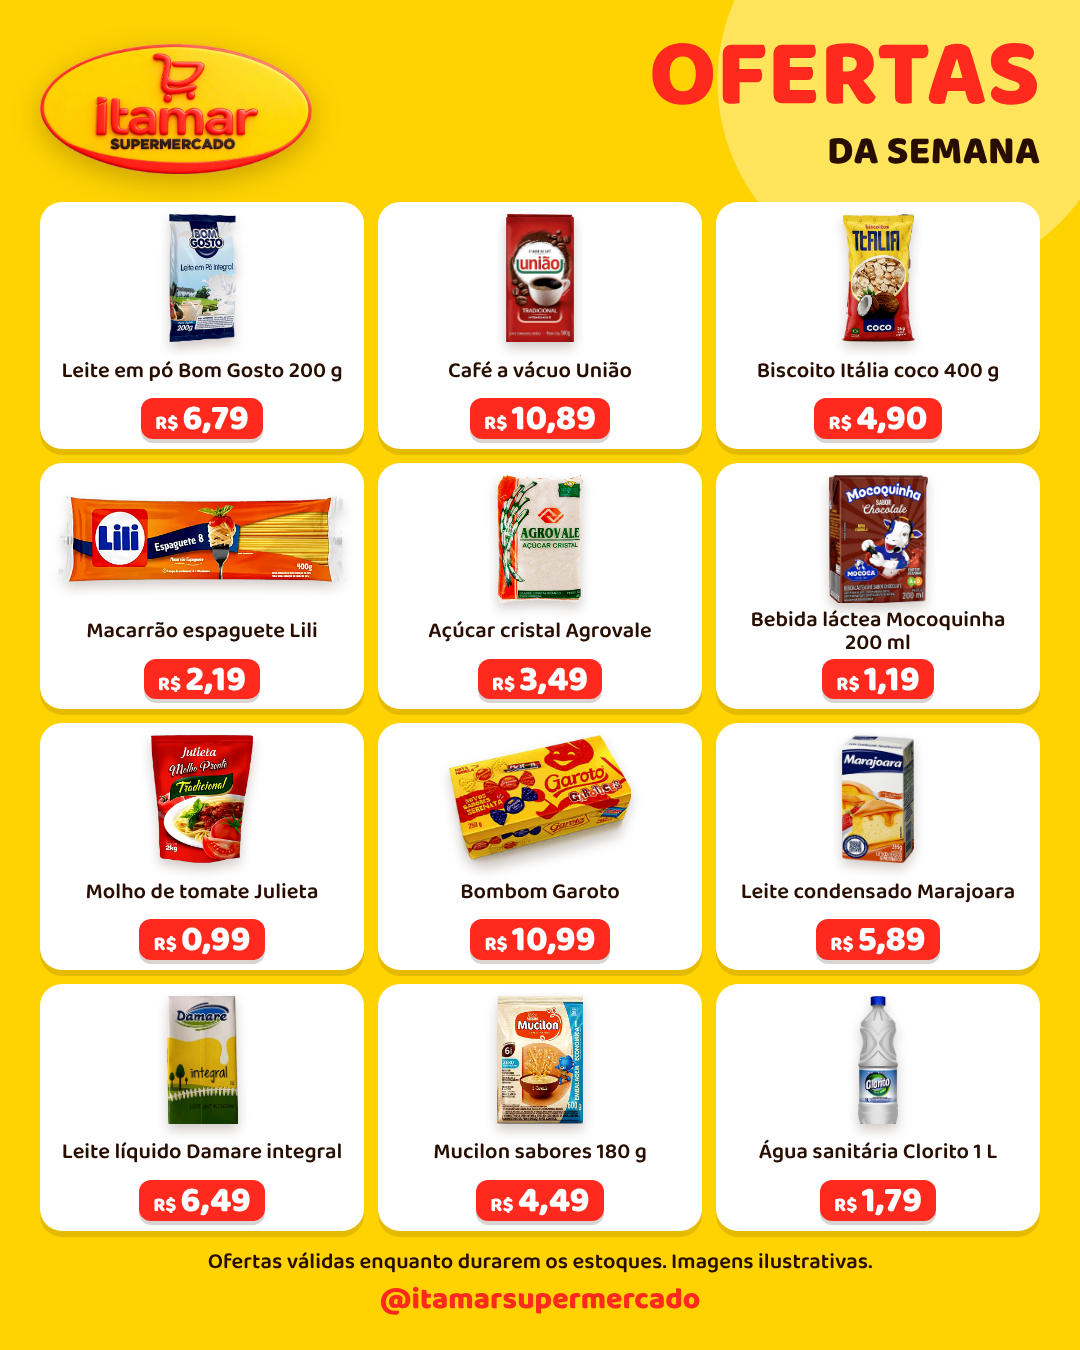
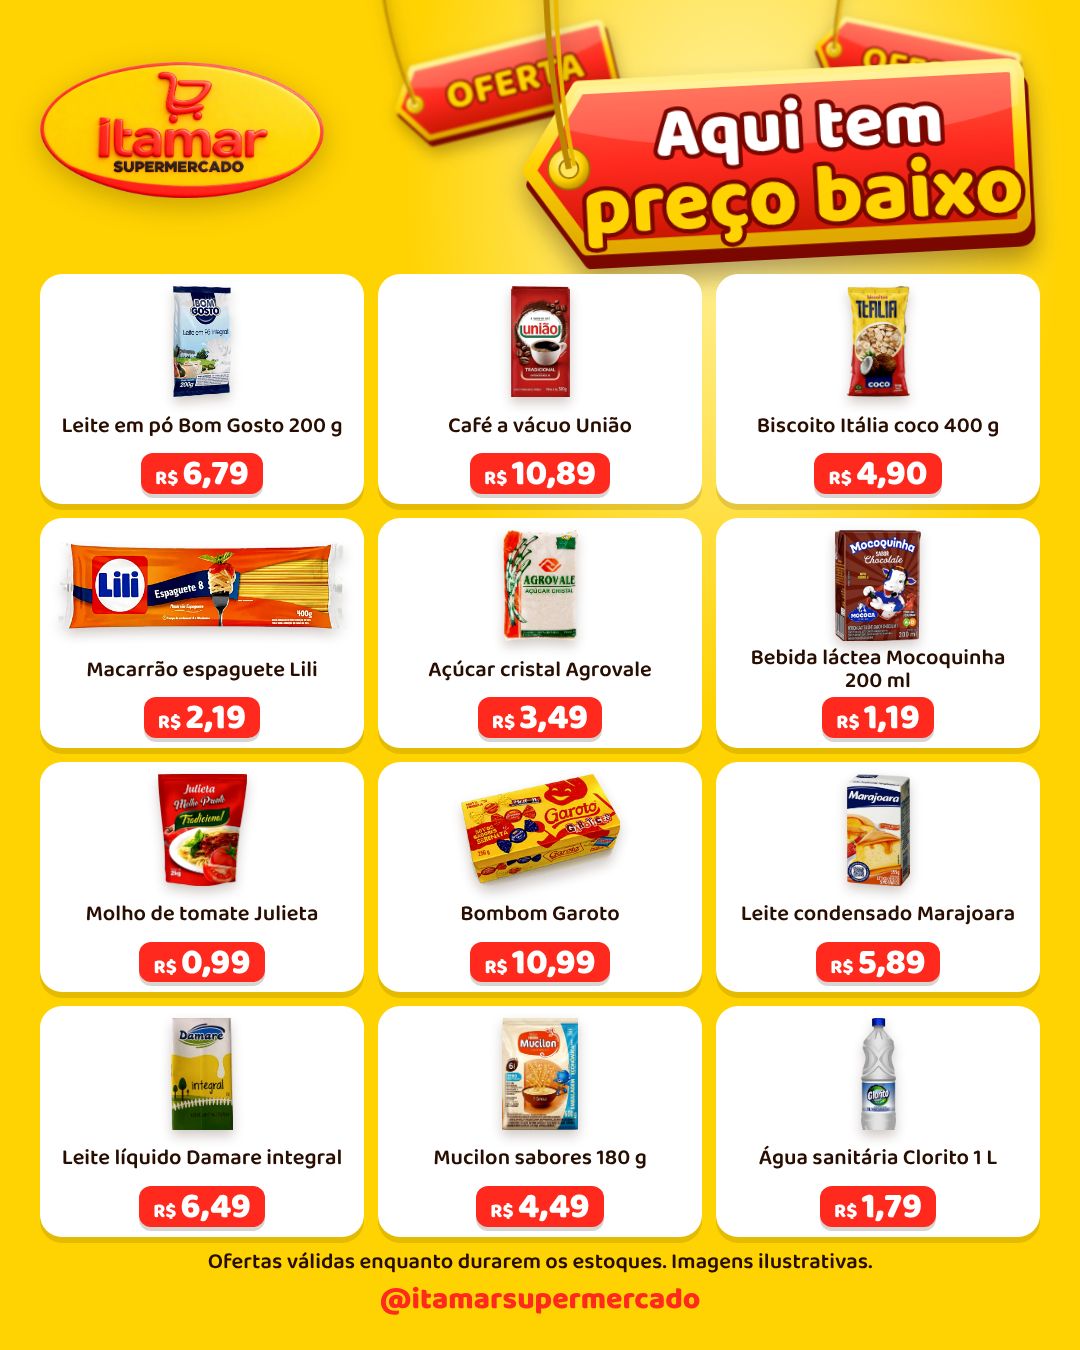
Itamar ofertas: tags 3D "Aqui tem preço baixo" nas cores do Itamar no lugar do título
Claude-Session: https://claude.ai/code/session_01RAcsiCUqH9iCNBekL3L4L7

diff --git a/clientes/itamar-supermercado/entregas/2026-11-19-ofertas-mercearia/card-ofertas.html b/clientes/itamar-supermercado/entregas/2026-11-19-ofertas-mercearia/card-ofertas.html
@@ -3,12 +3,11 @@
 <style>
 :root{--amarelo:#FFD302;--vermelho:#FF291E;--marrom:#280E01}
 *{box-sizing:border-box;margin:0}
-body{width:1080px;height:1350px;background:var(--amarelo);font-family:"Baloo 2",sans-serif;color:var(--marrom);display:flex;flex-direction:column;padding:34px 40px 26px;gap:18px;background-image:radial-gradient(circle at 85% 6%,#FFE45C 0 200px,transparent 201px)}
-.top{display:flex;align-items:center;justify-content:space-between}
-.top img{height:130px;filter:drop-shadow(0 8px 14px rgba(40,14,1,.25))}
-.titulo{text-align:right;line-height:.9}
-.titulo b{display:block;font:800 96px/0.9 "Baloo 2";color:var(--vermelho)}
-.titulo span{font:800 40px "Baloo 2"}
+body{width:1080px;height:1350px;background:var(--amarelo);font-family:"Baloo 2",sans-serif;color:var(--marrom);display:flex;flex-direction:column;padding:0 40px 26px;gap:12px;background-image:radial-gradient(ellipse at 68% 14%,#FFF3A6 0,#FFE45C 160px,transparent 330px)}
+.top{position:relative;height:262px;flex:none}
+.top>img{position:absolute;left:0;top:62px;height:136px;filter:drop-shadow(0 8px 14px rgba(40,14,1,.25));z-index:3}
+.tags{position:absolute;left:300px;top:0;width:700px;height:262px}
+.tags svg{position:absolute;overflow:visible}
 .grid{flex:1;display:grid;grid-template-columns:repeat(3,1fr);grid-template-rows:repeat(4,1fr);gap:14px}
 .p{background:#fff;border-radius:22px;padding:10px 12px 10px;display:flex;flex-direction:column;box-shadow:0 6px 0 rgba(40,14,1,.12);position:relative;min-height:0}
 .foto{flex:1;min-height:0;background:center/contain no-repeat;margin:2px 6px 0;filter:drop-shadow(0 6px 6px rgba(40,14,1,.22))}
@@ -18,7 +17,21 @@ body{width:1080px;height:1350px;background:var(--amarelo);font-family:"Baloo 2",
 .rod{text-align:center;font:600 22px/1.25 "Baloo 2"}
 .arroba{font:800 30px "Baloo 2";color:var(--vermelho)}
 </style>
-<div class="top"><img src="../../identidade/logo-itamar-3d-transparente.png" alt=""><div class="titulo"><b>OFERTAS</b><span>DA SEMANA</span></div></div>
+<div class="top"><img src="../../identidade/logo-itamar-3d-transparente.png" alt=""><svg width="0" height="0" style="position:absolute"><defs>
+<linearGradient id="ouro" x1="0" y1="0" x2="0" y2="1"><stop offset="0" stop-color="#FFF08A"/><stop offset=".45" stop-color="#FFD302"/><stop offset="1" stop-color="#E0A800"/></linearGradient>
+<linearGradient id="verm" x1="0" y1="0" x2="0" y2="1"><stop offset="0" stop-color="#FF5A3C"/><stop offset=".5" stop-color="#FF291E"/><stop offset="1" stop-color="#C41500"/></linearGradient>
+<radialGradient id="ilho" cx=".4" cy=".35" r=".7"><stop offset="0" stop-color="#FFF6B0"/><stop offset=".6" stop-color="#FFD302"/><stop offset="1" stop-color="#B98600"/></radialGradient>
+<clipPath id="corpo"><path d="M78 22 H572 Q584 22 584 34 V196 Q584 208 572 208 H78 L16 115 Z"/></clipPath>
+<symbol id="tag" viewBox="0 0 600 230" overflow="visible">
+ <path d="M78 22 H572 Q584 22 584 34 V196 Q584 208 572 208 H78 L16 115 Z" transform="translate(4 16)" fill="#7A0800" stroke="#7A0800" stroke-width="16" stroke-linejoin="round"/>
+ <path d="M78 22 H572 Q584 22 584 34 V196 Q584 208 572 208 H78 L16 115 Z" fill="url(#verm)" stroke="url(#ouro)" stroke-width="16" stroke-linejoin="round"/>
+ <g clip-path="url(#corpo)"><ellipse cx="320" cy="20" rx="330" ry="80" fill="#fff" opacity=".18"/></g>
+ <circle cx="62" cy="115" r="24" fill="url(#ilho)" stroke="#9C6F00" stroke-width="2"/>
+ <circle cx="62" cy="115" r="11" fill="#FFE45C" stroke="#9C6F00" stroke-width="2"/>
+</symbol></defs></svg><div class="tags"><svg viewBox="0 0 600 230" width="230" style="left:40px;top:58px;transform:rotate(-14deg);transform-origin:40px 0;filter:blur(1px) drop-shadow(0 8px 8px rgba(40,14,1,.3))">
+<use href="#tag"/><path d="M62 115 Q20 -120 90 -420" fill="none" stroke="#B98600" stroke-width="7"/><path d="M68 112 Q34 -120 104 -420" fill="none" stroke="#E8B800" stroke-width="5"/><text x="330" y="150" text-anchor="middle" font-family="Baloo 2" font-weight="800" font-size="104" fill="#FFD302" stroke="#7A0800" stroke-width="10" paint-order="stroke" stroke-linejoin="round">OFERTA</text></svg><svg viewBox="0 0 600 230" width="210" style="left:480px;top:14px;transform:rotate(12deg);transform-origin:40px 0;filter:blur(1px) drop-shadow(0 8px 8px rgba(40,14,1,.3))">
+<use href="#tag"/><path d="M62 115 Q20 -120 90 -420" fill="none" stroke="#B98600" stroke-width="7"/><path d="M68 112 Q34 -120 104 -420" fill="none" stroke="#E8B800" stroke-width="5"/><text x="330" y="150" text-anchor="middle" font-family="Baloo 2" font-weight="800" font-size="104" fill="#FFD302" stroke="#7A0800" stroke-width="10" paint-order="stroke" stroke-linejoin="round">OFERTA</text></svg><svg viewBox="0 0 600 230" width="520" style="left:170px;top:70px;transform:rotate(-3deg);transform-origin:40px 0;filter:drop-shadow(0 14px 12px rgba(40,14,1,.35))">
+<use href="#tag"/><path d="M62 115 Q20 -120 90 -420" fill="none" stroke="#B98600" stroke-width="7"/><path d="M68 112 Q34 -120 104 -420" fill="none" stroke="#E8B800" stroke-width="5"/><text x="330" y="105" text-anchor="middle" font-family="Baloo 2" font-weight="800" font-size="82" fill="#fff" stroke="#7A0800" stroke-width="10" paint-order="stroke" stroke-linejoin="round">Aqui tem</text><text x="330" y="190" text-anchor="middle" font-family="Baloo 2" font-weight="800" font-size="96" fill="#FFD302" stroke="#7A0800" stroke-width="10" paint-order="stroke" stroke-linejoin="round">preço baixo</text></svg></div></div>
 <div class="grid">
   <div class="p"><div class="foto" style="background-image:url(../../fotos/produtos/mercearia/leite-em-po-bom-gosto-200g.png)"></div><div class="nome">Leite em pó Bom Gosto&nbsp;200&nbsp;g</div><div class="preco"><small>R$</small>6,79</div></div>
   <div class="p"><div class="foto" style="background-image:url(../../fotos/produtos/mercearia/cafe-uniao-tradicional-500g.png)"></div><div class="nome">Café a vácuo União</div><div class="preco"><small>R$</small>10,89</div></div>
